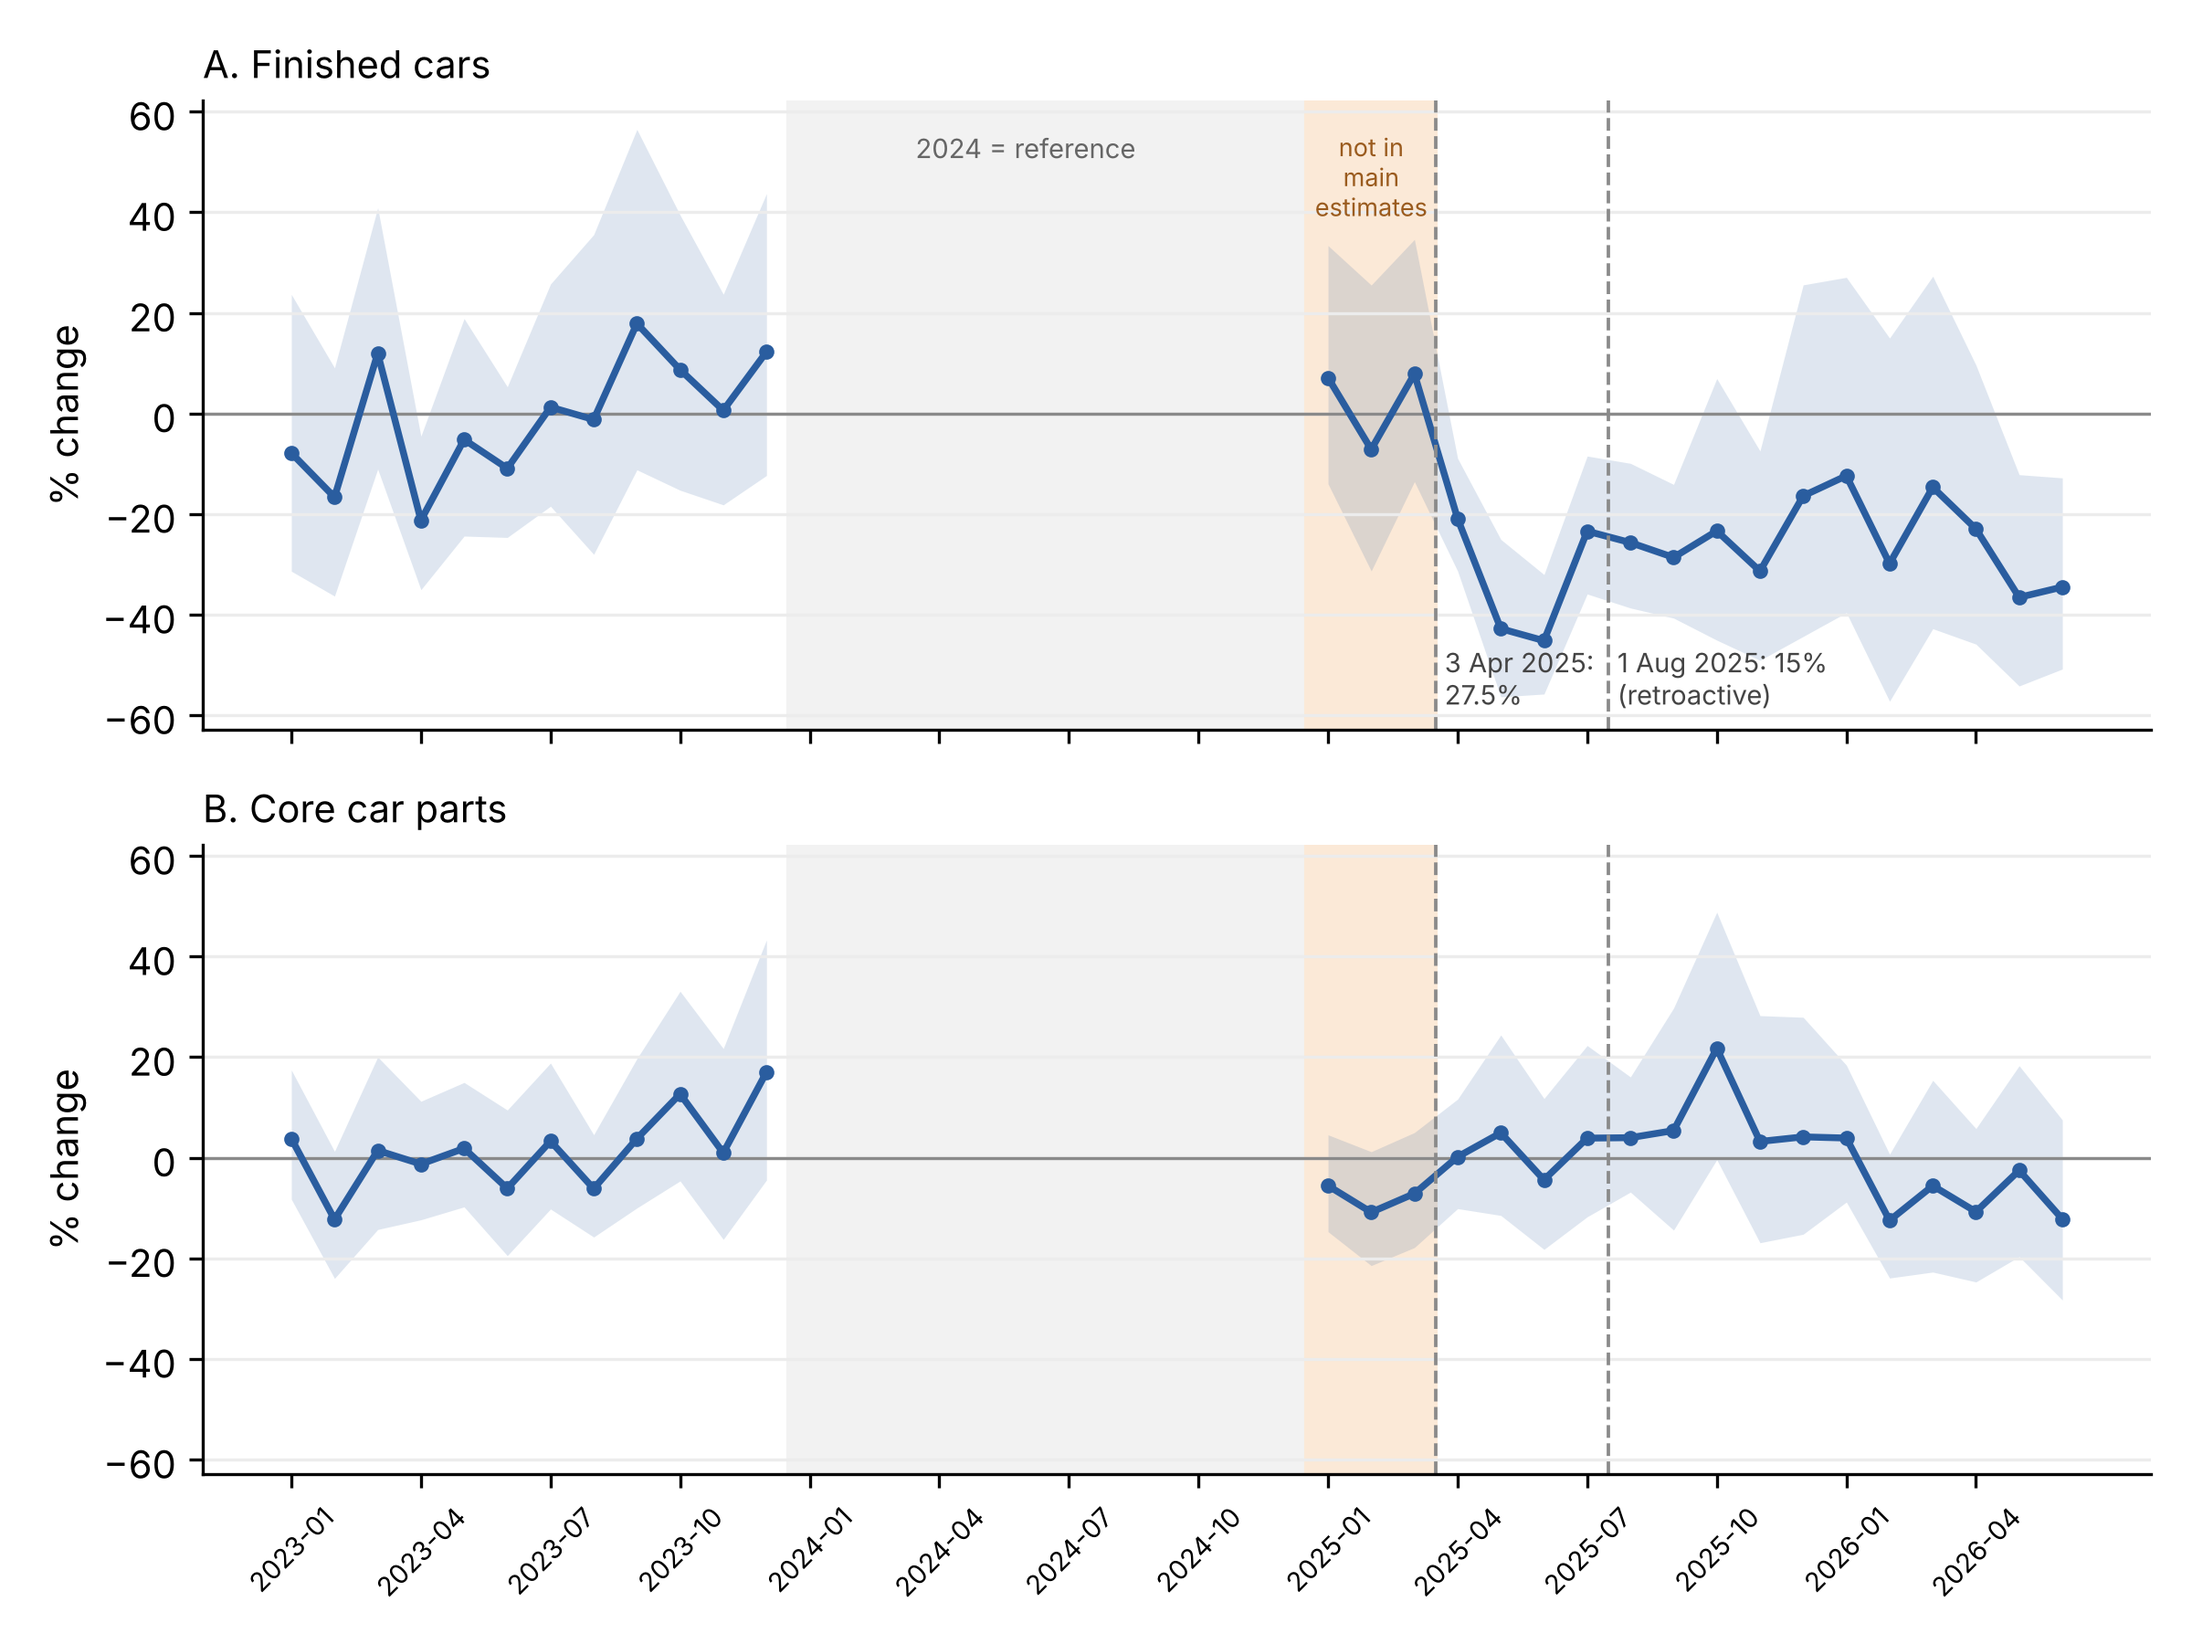
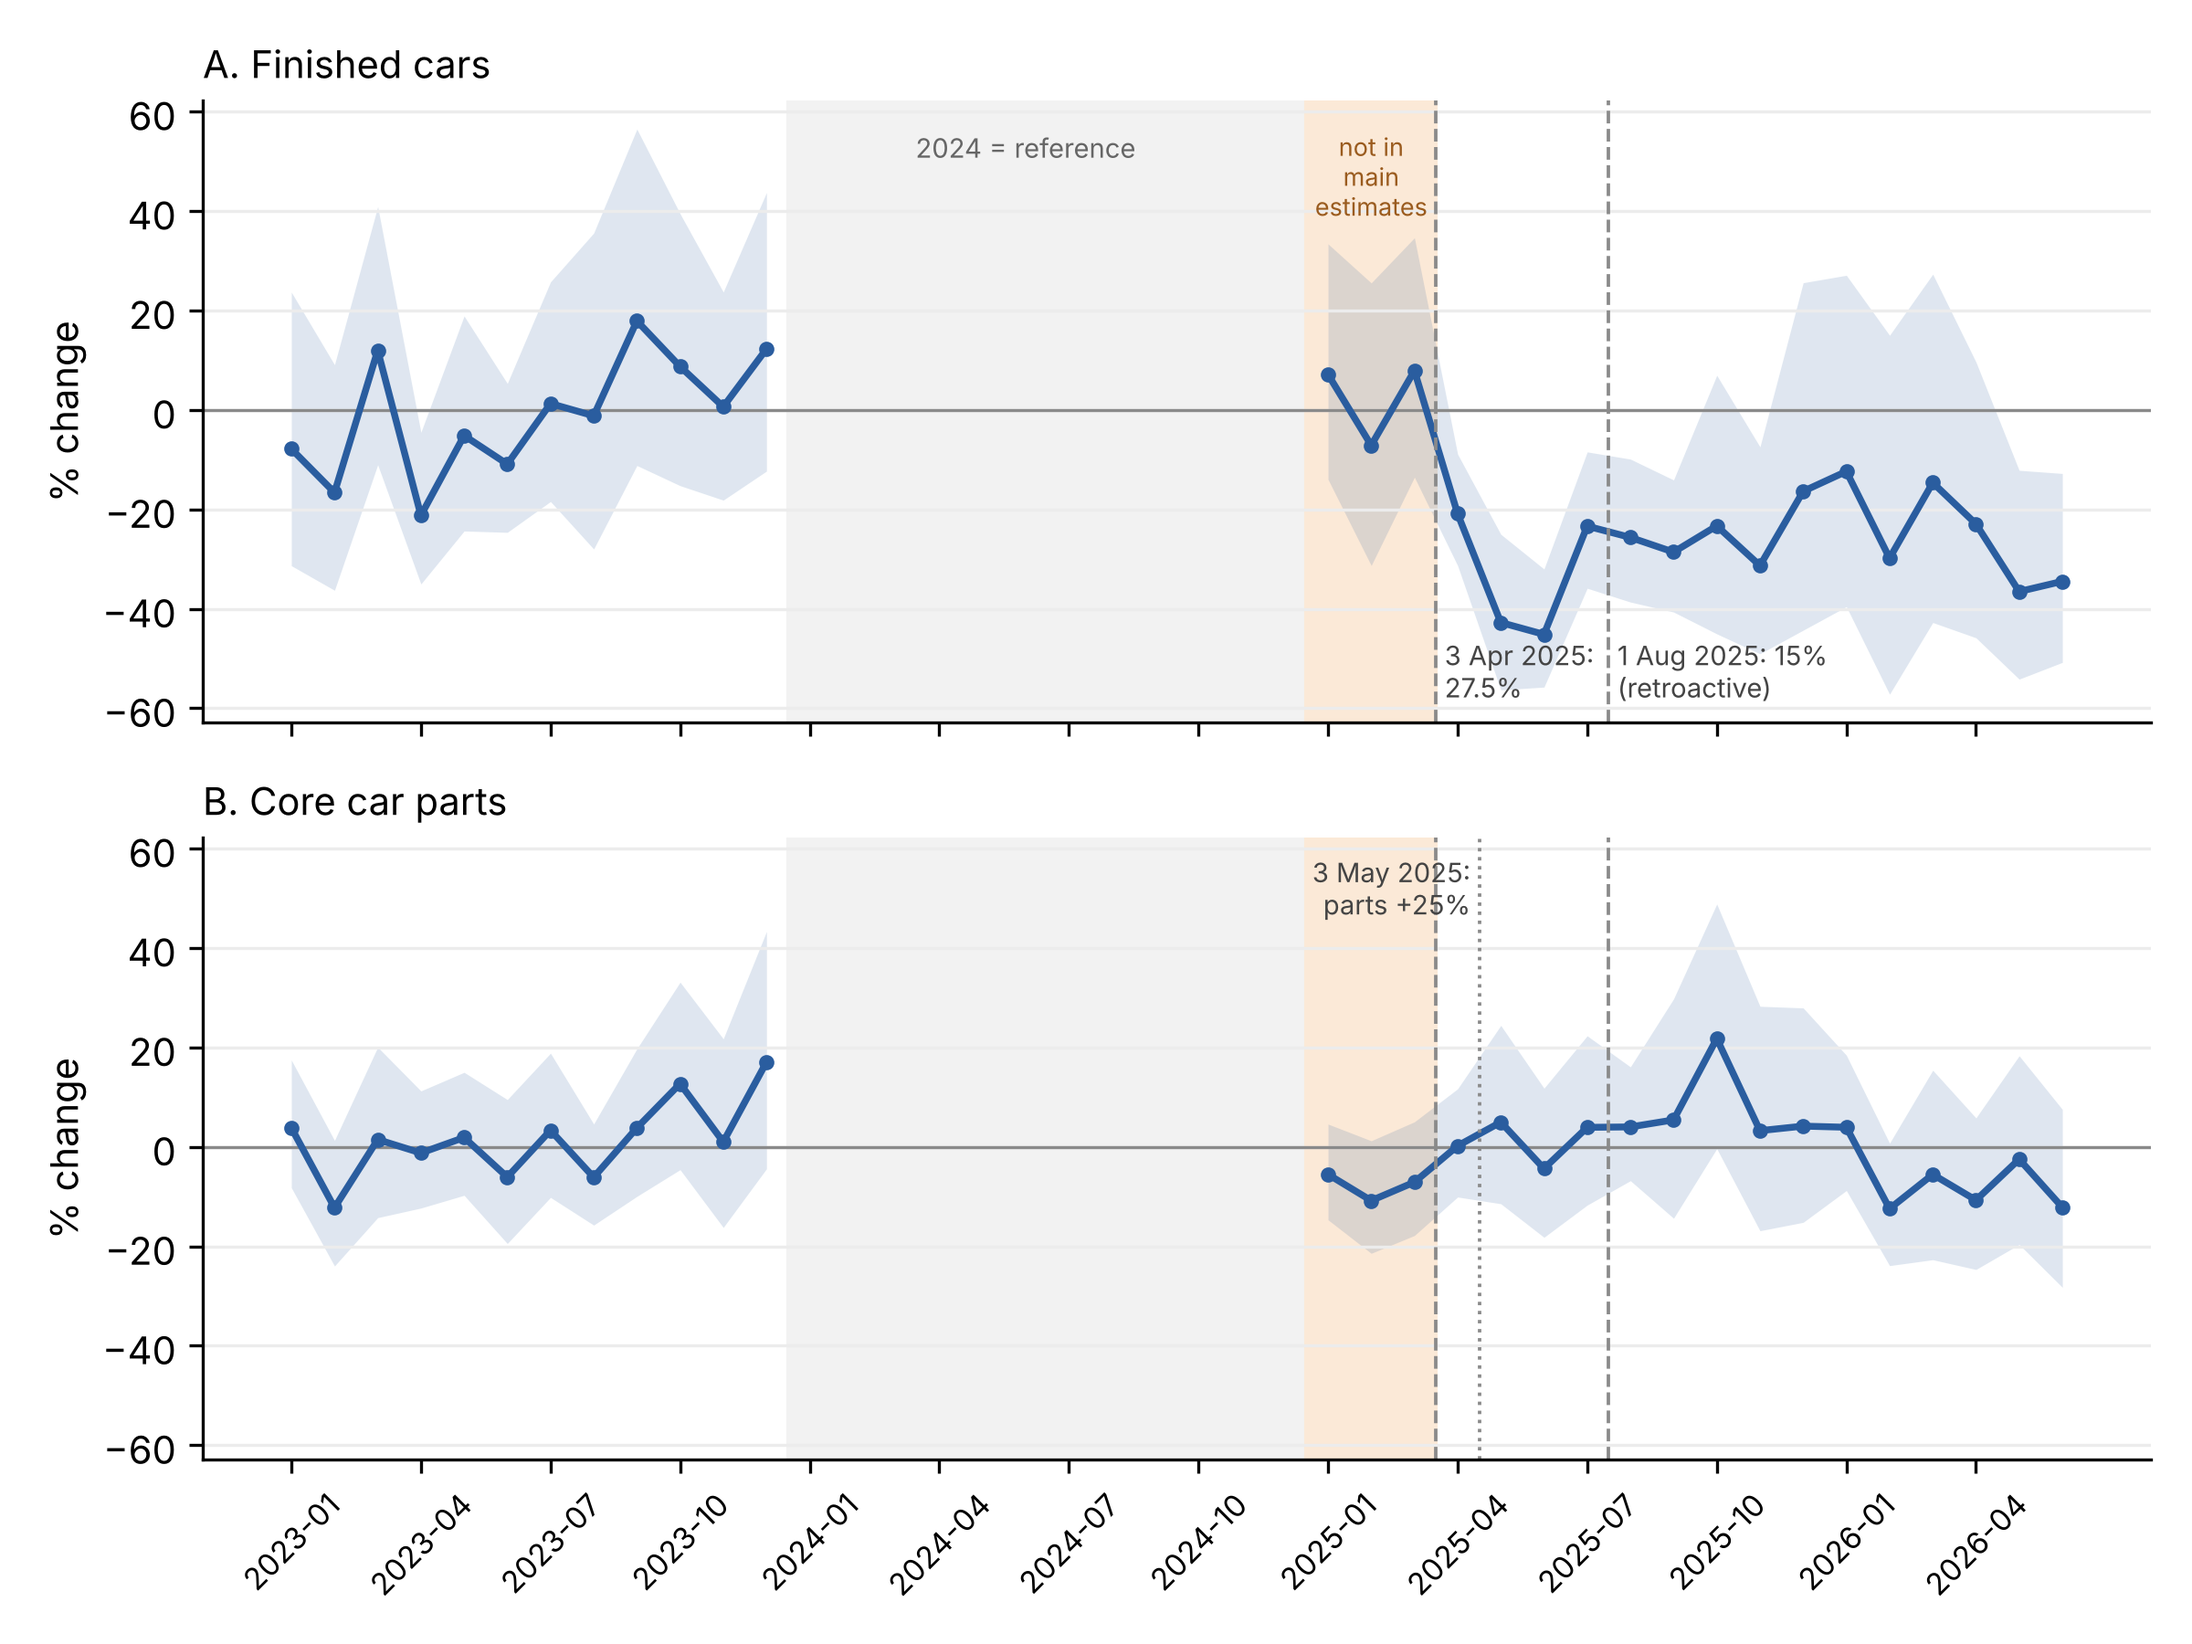
Figure 1: mark the 3 May 2025 parts tariff in panel B, larger axis labels

diff --git a/4_code/step42_fig1_redraw.py b/4_code/step42_fig1_redraw.py
@@ -3,7 +3,8 @@
 No re-estimation. Changes from step34: the second dashed line is labelled as the retroactive effective date of the
 agreed 15% rate (published 25 September 2025), and the January-March 2025 shading is labelled "not in main
 estimates" rather than "front-loading", because the estimates show no clear front-loading for cars and the months are
-only left out of the main model.
+only left out of the main model. Panel B also marks 3 May 2025, when the parts tariff
+took effect (dotted line).
 Saves 5_figures/fig1_event_study.png and .pdf
 """
 import os
@@ -36,6 +37,10 @@ for ax, (short, title) in zip(axes, [("CARS", "A. Finished cars"), ("PARTS", "B.
         ax.axvline(x[mm] - 0.5, color=GREY, linewidth=0.9, linestyle="--")
         if short == "CARS":
             ax.text(x[mm] - 0.3, 0.03, lab, transform=ax.get_xaxis_transform(), fontsize=7, color="#444444", va="bottom")
+    if short == "PARTS":
+        ax.axvline(x["202505"] - 0.5, color=GREY, linewidth=0.9, linestyle=":")
+        ax.text(x["202505"] - 0.7, 0.97, "3 May 2025:\nparts +25%", transform=ax.get_xaxis_transform(), fontsize=7,
+                color="#444444", va="top", ha="right")
     ax.set_title(title, loc="left", fontsize=10)
     ax.set_ylabel("% change")
     ax.grid(axis="y", color="#ececec")
@@ -44,7 +49,7 @@ for ax, (short, title) in zip(axes, [("CARS", "A. Finished cars"), ("PARTS", "B.
 
 ticks = [mm for mm in allm if mm[4:] in ("01", "04", "07", "10")]
 axes[1].set_xticks([x[mm] for mm in ticks])
-axes[1].set_xticklabels([f"{mm[:4]}-{mm[4:]}" for mm in ticks], rotation=45, fontsize=7)
+axes[1].set_xticklabels([f"{mm[:4]}-{mm[4:]}" for mm in ticks], rotation=45, fontsize=8)
 axes[0].text(x["202406"], 0.95, "2024 = reference", fontsize=7, color="#666666", ha="center", va="top",
              transform=axes[0].get_xaxis_transform())
 axes[0].text(x["202502"], 0.95, "not in\nmain\nestimates", fontsize=6.5, color="#9a5b1e", ha="center", va="top",
